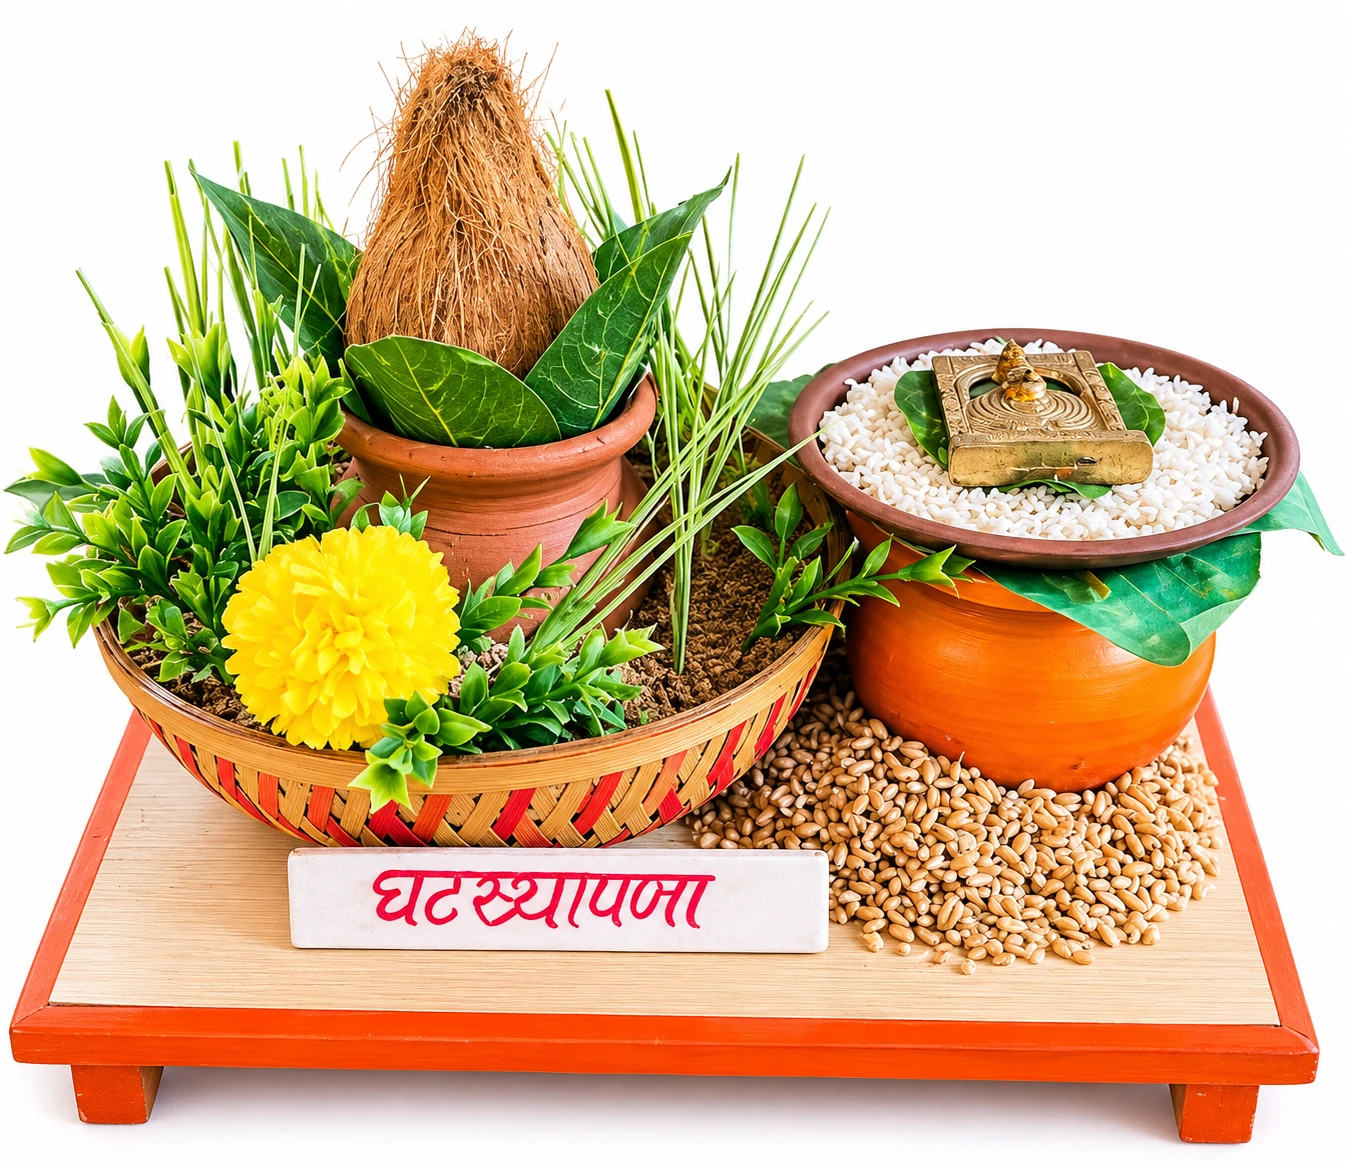
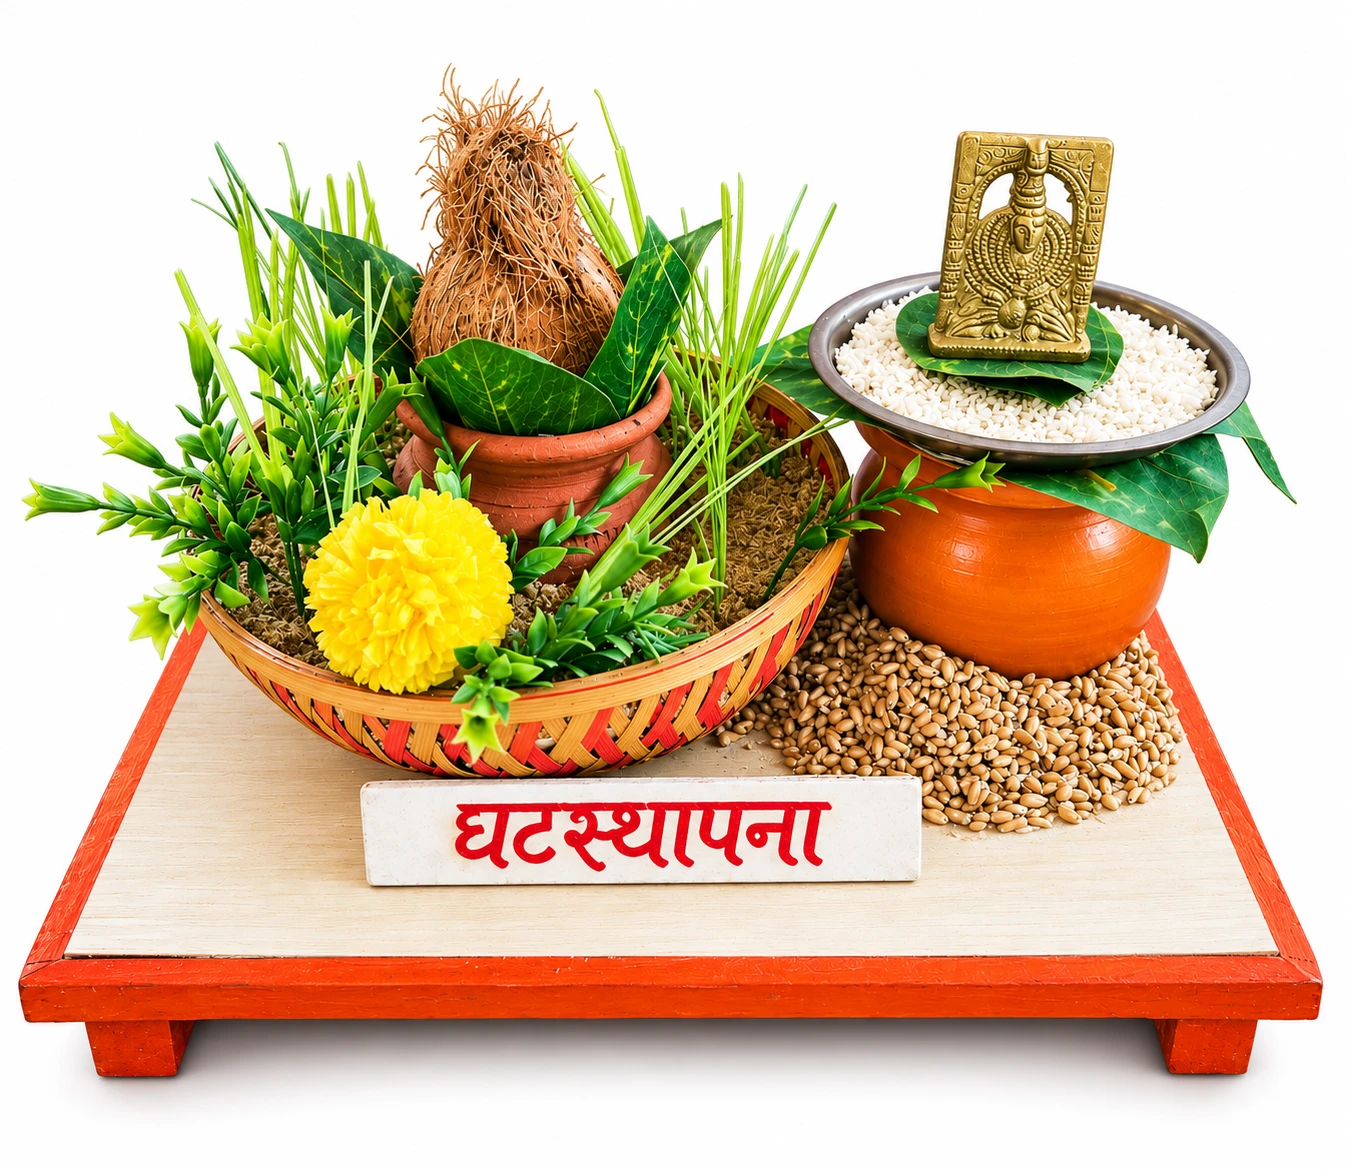
घटस्थापना फोटो परत बदलला — गहू व देवीच्या मूर्तीसह कलश असलेला फोटो
Claude-Session: https://claude.ai/code/session_01TqV3C5SpsQSXCmkhGwRKbq

diff --git a/index.html b/index.html
@@ -3059,7 +3059,7 @@ footer{text-align:center;margin-top:30px;font-size:14px;color:var(--shai-soft);l
         </summary>
         <div class="accbody">
           <p><b>❋ शारदीय नवरात्र घटस्थापना विधी</b></p>
-          <img src="assets/images/ghatasthapana-diagram.webp" alt="घटस्थापना — नारळ, आंब्याची पाने, दूर्वा, फुले यांनी सजवलेली टोपली व कलशावर धान्य-यंत्र" style="width:100%;max-width:360px;display:block;margin:0 auto;border-radius:12px">
+          <img src="assets/images/ghatasthapana-diagram.webp" alt="घटस्थापना — नारळ, आंब्याची पाने, दूर्वा, फुले यांनी सजवलेली टोपली, गहू व कलशावर देवीची मूर्ती ठेवलेले तांदळाचे भांडे" style="width:100%;max-width:360px;display:block;margin:0 auto;border-radius:12px">
           <p>❋ श्री स्वामी स्तवन व एक माळ श्री स्वामी समर्थ जप.</p>
           <p>❋ 'ॐ सर्व मंगल मांगल्ये, शिवे सर्वार्थ साधिके, शरण्ये त्र्यंबके गौरी नारायणी नमोऽस्तुते।' हा मंत्र म्हणत पुरुषांनी अष्टगंध व महिलांनी हळदी-कुंकू स्वतःच्या कपाळी लावावे.</p>
           <p>❋ खालील मंत्रांनी चार वेळा तळहातावर पाणी घेऊन प्यावे —<br>
